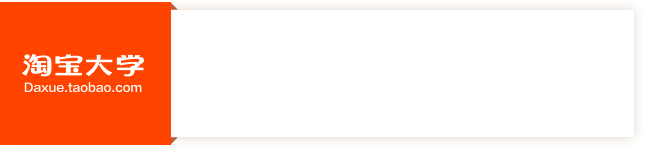
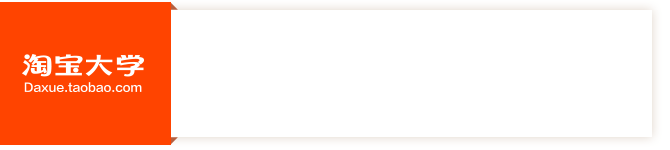
样式微调

Changed region(s): [[0.0308, 0.0, 0.2769, 0.96], [0.0308, 0.5333, 0.2154, 0.6133]]

diff --git a/assets/sm.js b/assets/sm.js
@@ -2,7 +2,7 @@
 
 	var fontZhonghei = new Font('assets/zhonghei.ttf','FZZH');
 	var fontZhunhei = new Font('assets/zhunhei.ttf','FZZHH');
-	var painterSM = new Painter('sm',{width:650,height:150});
+	var painterSM = new Painter('sm',{width:670,height:150});
 
 	var make = function(info){
 		
@@ -16,7 +16,7 @@
 		painterSM.add('Text',{text:info.name,color:'#5E6D81',size:22,bold:'',fontObj:fontZhonghei},{x:310,y:32},1);
 		
 		//部门
-		painterSM.add('Text',{text:info.department,color:'#9EA7B3',size:13,fontObj:fontZhunhei},{x:310,y:66},1);
+		painterSM.add('Text',{text:info.department,color:'#9EA7B3',size:13,fontObj:fontZhunhei},{x:310,y:62},1);
 		
 		//地址
 		painterSM.add('Text',{text:info.address,color:'#888888',size:11,fontObj:fontZhunhei},{x:310,y:89},1);
@@ -180,7 +180,7 @@
 			var tel = $('#tel').val();
 			var telsub = $('#telsub').val();
 			var telphone = '电话：'+tel;
-			telphone += telsub ? ' 分机'+telsub : '';
+			telphone += telsub ? '('+telsub+')' : '';
 			if(!tel) telphone = '';//若未填写，则不显示
 			else if(!tel.match(/^([0-9]|-)+$/) || (telsub && !telsub.match(/^[0-9]+$/))){
 				tips.show($('.step4'),'电话号码格式不正确');
@@ -205,7 +205,7 @@
 			var site = '网站：http://daxue.taobao.com'
 
 			//绘制
-			isOk = 1;//调试代码
+			//isOk = 1;//调试代码
 			if(isOk){
 				make({
 					image:imgAvatar,
